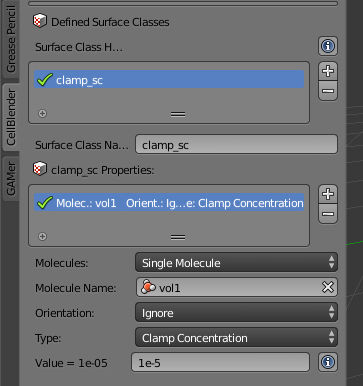
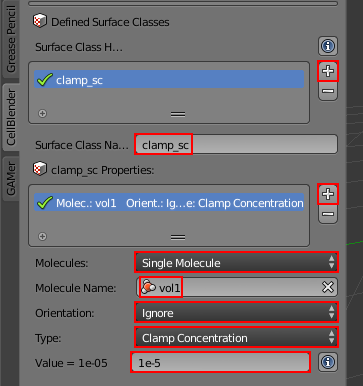
Added photos and more steps

diff --git a/clamp.rst b/clamp.rst
@@ -29,6 +29,9 @@ Create Cube and Plane
 ---------------------------------------------
 
 * Hit the **Model Objects** button.
+
+  .. image:: ./images/clamp/model_objects_button.png
+    
 * Hit the cube button
 * Hit the **+** button to add the cube to the **Model Objects** list.
 * Expand the **Cube Object Options** sub-panel.
@@ -46,6 +49,9 @@ Create Cube and Plane
 .. image:: ./images/clamp/plane.png
 
 * Hit the **Molecules** button.
+
+.. image:: ./images/clamp/molecule_button.png
+
 * Hit the **+** button to create a new molecule.
 * Change the **Molecule Name** to **vol1**.
 * Change the **Molecule Type** to **Volume Molecule**.
@@ -57,6 +63,9 @@ Add the Surface Class
 ---------------------------------------------
 
 * Hit the **Surface Classes** button.
+
+.. image:: ./images/clamp/surface_class_button.png
+
 * Hit the **+** button to create a new surface class called **Surface_Class**.
 * Rename it to **clamp_sc**.
 * Hit the **+** button beside the empty **clamp_sc Properties** list. Set the
@@ -76,6 +85,9 @@ Assign the Surface Class
 Now that we have created our surface class, we need to assign it to our mesh.
 
 * Hit the **Assign Surface Classes** button.
+
+.. image:: ./images/clamp/assign_surface_class_button.png
+
 * Hit the **+** to begin adding a new surface class.
 * In the **Surface Class Name** field, select **clamp_sc**.
 * Under **Object Name**, select the newly created **Plane** object.
